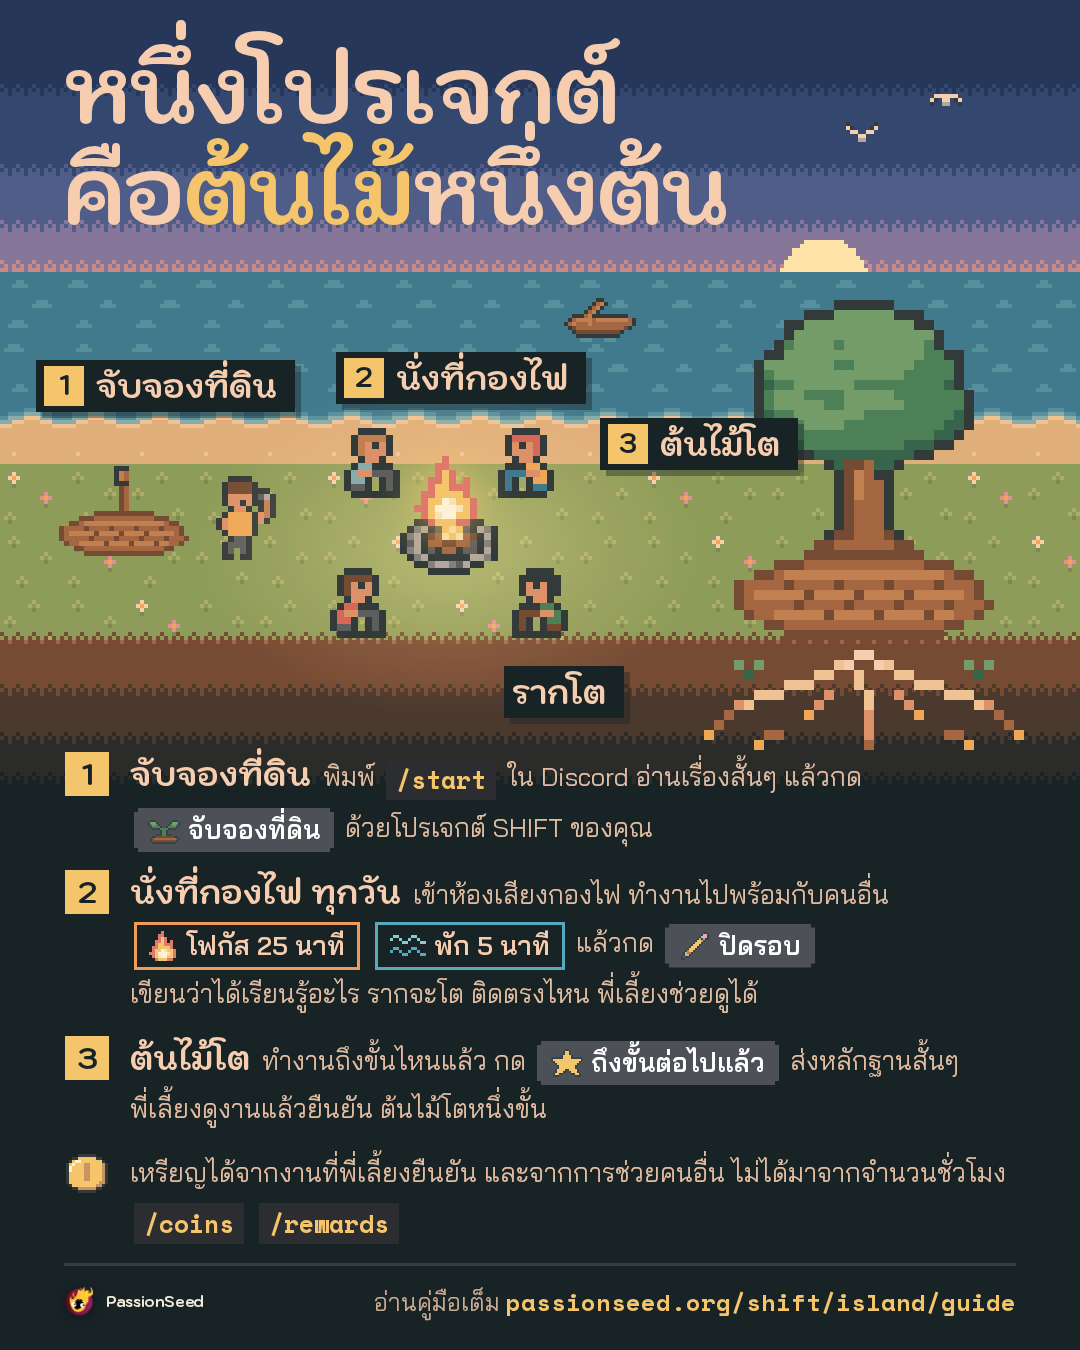
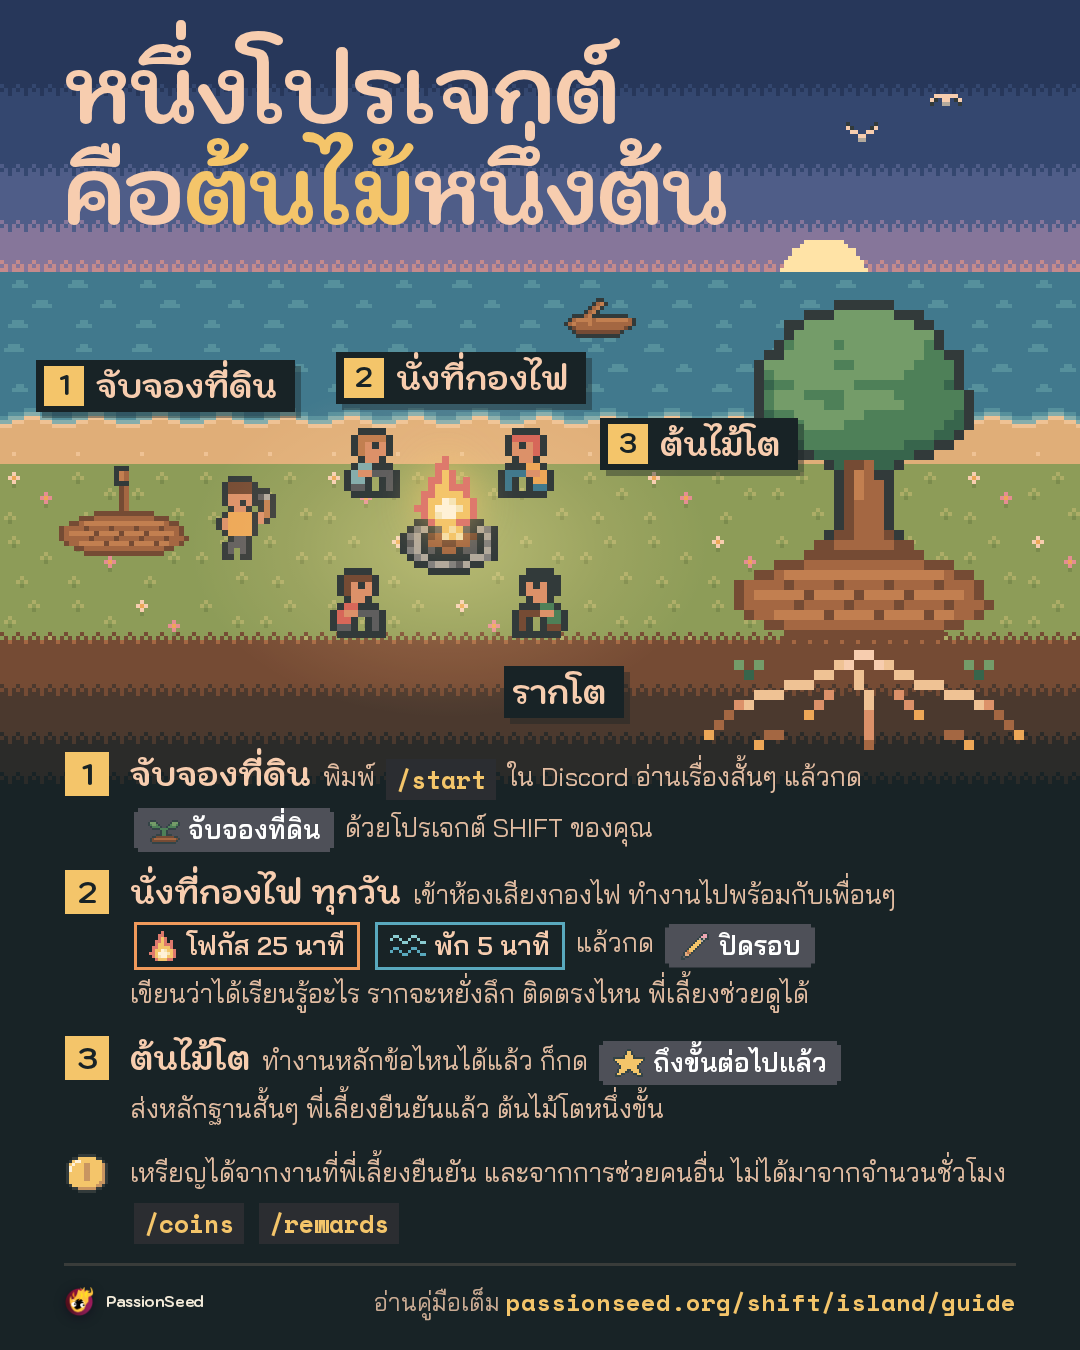
fix(shift): poster copy matches the Thai review (หยั่งลึก, งานหลักข้อไหน, เพื่อนๆ)

Changed region(s): [[0.1222, 0.7156, 0.8861, 0.84], [0.7639, 0.6533, 0.825, 0.6844]]

diff --git a/components/shift/poster/pixel/island/guidePosterCopy.ts b/components/shift/poster/pixel/island/guidePosterCopy.ts
@@ -68,14 +68,14 @@ export const ISLAND_GUIDE_POSTER = {
       n: 2,
       title: "นั่งที่กองไฟ ทุกวัน",
       lines: [
-        [{ text: "เข้าห้องเสียงกองไฟ ทำงานไปพร้อมกับคนอื่น" }],
+        [{ text: "เข้าห้องเสียงกองไฟ ทำงานไปพร้อมกับเพื่อนๆ" }],
         [
           { phase: `โฟกัส ${CAMPFIRE_ROUND.focusMinutes} นาที`, icon: "flame", tone: "focus" },
           { phase: `พัก ${CAMPFIRE_ROUND.restMinutes} นาที`, icon: "wave", tone: "rest" },
           { text: "แล้วกด" },
           { button: GUIDE_POSTER_BUTTONS.close, icon: "pencil" },
         ],
-        [{ text: "เขียนว่าได้เรียนรู้อะไร รากจะโต ติดตรงไหน พี่เลี้ยงช่วยดูได้" }],
+        [{ text: "เขียนว่าได้เรียนรู้อะไร รากจะหยั่งลึก ติดตรงไหน พี่เลี้ยงช่วยดูได้" }],
       ],
     },
     {
@@ -83,9 +83,9 @@ export const ISLAND_GUIDE_POSTER = {
       title: "ต้นไม้โต",
       lines: [
         [
-          { text: "ทำงานถึงขั้นไหนแล้ว กด" },
+          { text: "ทำงานหลักข้อไหนได้แล้ว ก็กด" },
           { button: GUIDE_POSTER_BUTTONS.milestone, icon: "star" },
-          { text: "ส่งหลักฐานสั้นๆ พี่เลี้ยงดูงานแล้วยืนยัน ต้นไม้โตหนึ่งขั้น" },
+          { text: "ส่งหลักฐานสั้นๆ พี่เลี้ยงยืนยันแล้ว ต้นไม้โตหนึ่งขั้น" },
         ],
       ],
     },
